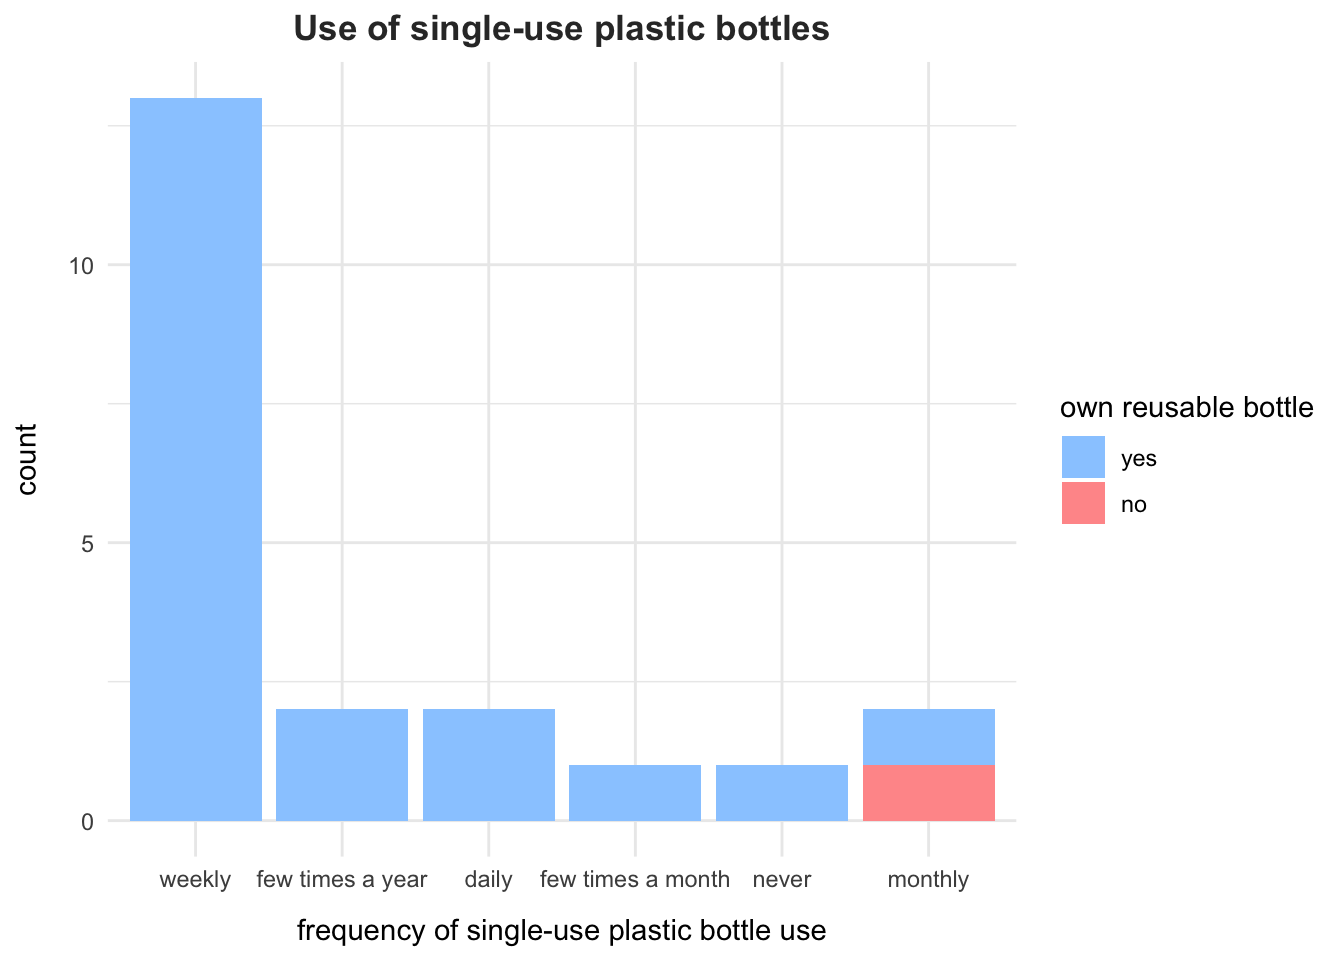
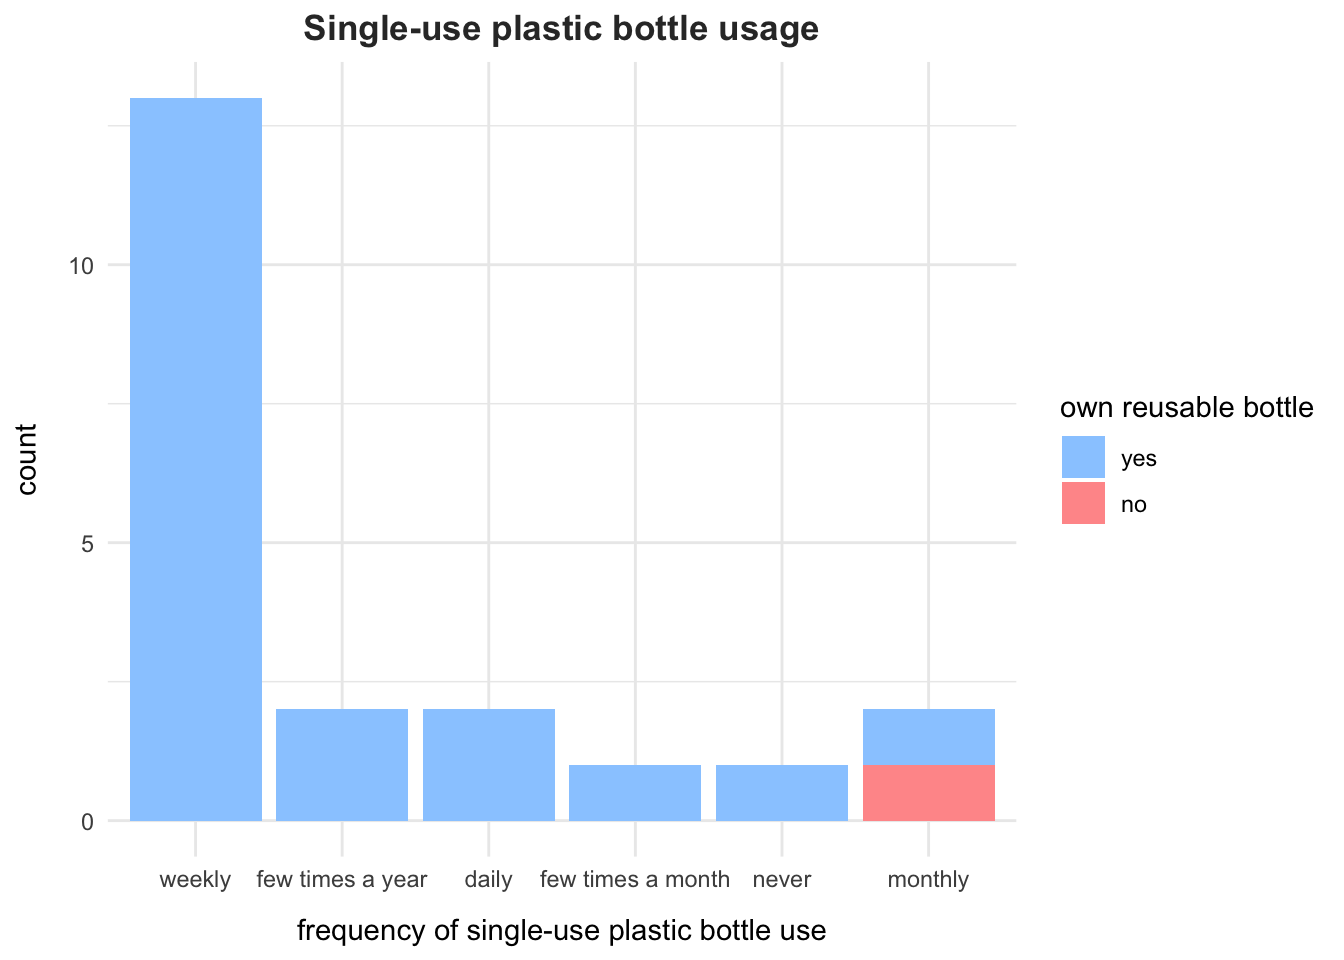
Conclusions

Changed region(s): [[0.2188, 0.0, 0.625, 0.0625]]

diff --git a/docs/index.html b/docs/index.html
@@ -94,10 +94,27 @@ div.csl-indent {
 
 </head>
 
-<body class="fullcontent">
+<body>
 
 <div id="quarto-content" class="page-columns page-rows-contents page-layout-article">
-
+<div id="quarto-margin-sidebar" class="sidebar margin-sidebar">
+  <nav id="TOC" role="doc-toc" class="toc-active">
+    <h2 id="toc-title">Table of contents</h2>
+   
+  <ul>
+  <li><a href="#introduction" id="toc-introduction" class="nav-link active" data-scroll-target="#introduction">Introduction</a></li>
+  <li><a href="#methods" id="toc-methods" class="nav-link" data-scroll-target="#methods">Methods</a></li>
+  <li><a href="#results" id="toc-results" class="nav-link" data-scroll-target="#results">Results</a>
+  <ul class="collapse">
+  <li><a href="#plastic-recycling-rate" id="toc-plastic-recycling-rate" class="nav-link" data-scroll-target="#plastic-recycling-rate">Plastic recycling rate</a></li>
+  <li><a href="#relationship-between-single-use-plastic-bottle-usage-and-reusable-bottle-ownership" id="toc-relationship-between-single-use-plastic-bottle-usage-and-reusable-bottle-ownership" class="nav-link" data-scroll-target="#relationship-between-single-use-plastic-bottle-usage-and-reusable-bottle-ownership">Relationship between single-use plastic bottle usage and reusable bottle ownership</a></li>
+  <li><a href="#willingness-to-separate-different-types-of-plastic-at-home-before-collection" id="toc-willingness-to-separate-different-types-of-plastic-at-home-before-collection" class="nav-link" data-scroll-target="#willingness-to-separate-different-types-of-plastic-at-home-before-collection">Willingness to separate different types of plastic at home before collection</a></li>
+  </ul></li>
+  <li><a href="#conclusions" id="toc-conclusions" class="nav-link" data-scroll-target="#conclusions">Conclusions</a></li>
+  <li><a href="#references" id="toc-references" class="nav-link" data-scroll-target="#references">References</a></li>
+  </ul>
+</nav>
+</div>
 <main class="content" id="quarto-document-content">
 
 <header id="title-block-header" class="quarto-title-block default">
@@ -159,19 +176,27 @@ div.csl-indent {
 <figcaption><a href="https://www.ebp.ch/en/node/1225">Source</a>: Plastic Recycling in Switzerland | EBP | Swiss</figcaption>
 </figure>
 </div>
+</div>
 <section id="introduction" class="level1">
 <h1>Introduction</h1>
+<div class="justify">
 <p>Switzerland faces significant challenges in recycling plastic waste. Each person in the country produces an average of 95 kg of plastic waste annually <span class="citation" data-cites="2023europe">(<a href="#ref-2023europe" role="doc-biblioref"><span>“Europe’s Laggard: <span>Switzerland</span>’s <span>Plastic Problem</span>”</span> 2023</a>)</span>. According to Patrick Semadeni, vice president of KUNSTOFF.swiss, Switzerland lacks the separation and recycling capacity to process all the collected plastic waste effectively <span class="citation" data-cites="turuban2024why">(<a href="#ref-turuban2024why" role="doc-biblioref">Turuban 2024</a>)</span>. This survey seeks to gain insights into the plastic waste management practices of individuals under 30 years old living in Switzerland. A potential solution could be separating different types of plastics at home for collection. The study aims to answer the following research question: To what extent are individuals under 30 in Switzerland aware of the environmental and health impacts of plastic? How do they recycle different types of plastics, and how willing are they to modify their plastic consumption and waste management practices?</p>
+</div>
 </section>
 <section id="methods" class="level1">
 <h1>Methods</h1>
+<div class="justify">
 <p>Data was collected via a questionnaire distributed through Google Forms as part of a project for the Research Beyond The Lab course at ETH Zurich. The 21 respondents, all under 30 years old and residing in Zurich, volunteered to complete the questionnaire. The sample was selected to ensure consistency in age, as the study was conducted by an ETH Zurich student. This approach aimed to minimize outliers and provide a focused perspective on the targeted demographic.</p>
+</div>
 </section>
 <section id="results" class="level1">
 <h1>Results</h1>
+<div class="justify">
 <p>This section presents findings related to the second part of the research question. Due to time constraints, the analysis of the first part of the question is omitted. Specifically, this chapter examines the overall plastic recycling rate, the recycling rate per type of plastic, the relationship between the use of single-use plastic bottles and ownership of a reusable bottle, and the willingness to separate different types of plastic at home before collection.</p>
+</div>
 <section id="plastic-recycling-rate" class="level2">
 <h2 class="anchored" data-anchor-id="plastic-recycling-rate">Plastic recycling rate</h2>
+<div class="justify">
 <p>We start by looking at our respondents. What is the average age, and does everyone recycle plastic? For simplicity, we computed the average age internally and found it to be 24 years old. Regarding the plastic recycling rate, our results were calculated as follows.</p>
 <div class="cell">
 <div class="sourceCode cell-code" id="cb1"><pre class="sourceCode r fold-hide code-with-copy"><code class="sourceCode r"><span id="cb1-1"><a href="#cb1-1" aria-hidden="true" tabindex="-1"></a><span class="co"># Load required libraries -----------------------------------</span></span>
@@ -240,7 +265,7 @@ Table&nbsp;1: Plastic recycling rate
 </figure>
 </div>
 </div>
-<p>As shown in <a href="#tbl-recycle-rate" class="quarto-xref">Table&nbsp;1</a>, the plastic recycling rate is 95.2%, indicating that almost every participant recycles plastic. This is a promising start. But which type of plastic is recycled the most? Does everyone recycle all types of plastic? To answer this, we choose to create a stacked bar chart displaying the recycling rates for each type of plastic.</p>
+<p>As shown in <a href="#tbl-recycle-rate" class="quarto-xref">Table&nbsp;1</a>, the plastic recycling rate is 95.2%, indicating that almost every participant recycles plastic. Moreover, the remaining 4.8% come from ‘Sometimes’ answers, meaning no one said they do not recycle plastic. This is a promising start. But which type of plastic is recycled the most? Does everyone recycle all types of plastic? To answer this, we create a stacked bar chart displaying the recycling rates for each type of plastic.</p>
 <div class="cell">
 <div class="sourceCode cell-code" id="cb2"><pre class="sourceCode r code-with-copy"><code class="sourceCode r"><span id="cb2-1"><a href="#cb2-1" aria-hidden="true" tabindex="-1"></a><span class="co"># Load required libraries -----------------------------------</span></span>
 <span id="cb2-2"><a href="#cb2-2" aria-hidden="true" tabindex="-1"></a><span class="fu">library</span>(ggplot2)</span>
@@ -299,16 +324,18 @@ Table&nbsp;1: Plastic recycling rate
 <img src="index_files/figure-html/fig-recycled-plastics-1.png" class="img-fluid figure-img" width="672">
 </div>
 <figcaption class="quarto-float-caption-bottom quarto-float-caption quarto-float-fig" id="fig-recycled-plastics-caption-0ceaefa1-69ba-4598-a22c-09a6ac19f8ca">
-Figure&nbsp;1: Proportion of recycled plastics per type
+Figure&nbsp;1: Proportion of recycled plastics by type
 </figcaption>
 </figure>
 </div>
 </div>
 </div>
 <p>As expected, <a href="#fig-recycled-plastics" class="quarto-xref">Figure&nbsp;1</a> showcases that Polyethylene Terephthalate (PET) - used for water bottles and plastic trays - achieves the highest recycling rate of 100%. Conversely, Low Density Polyethylene (LDPE) - employed in food bags, Polypropylene (PP) - found in margarine tubs and ready-meal trays, and Polystyrene (PS) - utilized for plastic cutlery, are not recycled by the majority of the population.</p>
+</div>
 </section>
 <section id="relationship-between-single-use-plastic-bottle-usage-and-reusable-bottle-ownership" class="level2">
 <h2 class="anchored" data-anchor-id="relationship-between-single-use-plastic-bottle-usage-and-reusable-bottle-ownership">Relationship between single-use plastic bottle usage and reusable bottle ownership</h2>
+<div class="justify">
 <p>Moving forward, let us delve into the usage of single-use plastic bottles and how it correlates with the ownership of a reusable bottle. To accomplish this, we will employ bar charts.</p>
 <div class="cell">
 <div class="sourceCode cell-code" id="cb3"><pre class="sourceCode r code-with-copy"><code class="sourceCode r"><span id="cb3-1"><a href="#cb3-1" aria-hidden="true" tabindex="-1"></a><span class="co"># Create summary table --------------------------------------</span></span>
@@ -339,7 +366,7 @@ Figure&nbsp;1: Proportion of recycled plastics per type
 <span id="cb3-26"><a href="#cb3-26" aria-hidden="true" tabindex="-1"></a>  <span class="fu">scale_fill_manual</span>(<span class="at">values =</span> <span class="fu">c</span>(<span class="st">"Yes"</span> <span class="ot">=</span> <span class="st">"#99CCFF"</span>, <span class="st">"No"</span> <span class="ot">=</span> <span class="st">"#FF9999"</span>), </span>
 <span id="cb3-27"><a href="#cb3-27" aria-hidden="true" tabindex="-1"></a>                    <span class="at">labels =</span> <span class="fu">c</span>(<span class="st">"yes"</span>, <span class="st">"no"</span>)) <span class="sc">+</span></span>
 <span id="cb3-28"><a href="#cb3-28" aria-hidden="true" tabindex="-1"></a>  <span class="fu">labs</span>(</span>
-<span id="cb3-29"><a href="#cb3-29" aria-hidden="true" tabindex="-1"></a>    <span class="at">title =</span> <span class="st">"Use of single-use plastic bottles"</span>,</span>
+<span id="cb3-29"><a href="#cb3-29" aria-hidden="true" tabindex="-1"></a>    <span class="at">title =</span> <span class="st">"Single-use plastic bottle usage"</span>,</span>
 <span id="cb3-30"><a href="#cb3-30" aria-hidden="true" tabindex="-1"></a>    <span class="at">x =</span> <span class="st">"frequency of single-use plastic bottle use"</span>,</span>
 <span id="cb3-31"><a href="#cb3-31" aria-hidden="true" tabindex="-1"></a>    <span class="at">y =</span> <span class="st">"count"</span>,</span>
 <span id="cb3-32"><a href="#cb3-32" aria-hidden="true" tabindex="-1"></a>    <span class="at">fill =</span> <span class="st">"own reusable bottle"</span></span>
@@ -360,16 +387,18 @@ Figure&nbsp;1: Proportion of recycled plastics per type
 <img src="index_files/figure-html/fig-bottles-1.png" class="img-fluid figure-img" width="672">
 </div>
 <figcaption class="quarto-float-caption-bottom quarto-float-caption quarto-float-fig" id="fig-bottles-caption-0ceaefa1-69ba-4598-a22c-09a6ac19f8ca">
-Figure&nbsp;2: Single-use plastic bottles use
+Figure&nbsp;2: Single-use plastic bottle usage
 </figcaption>
 </figure>
 </div>
 </div>
 </div>
 <p>As displayed in <a href="#fig-bottles" class="quarto-xref">Figure&nbsp;2</a>, nearly every respondent owns a reusable bottle. However, we did not find a clear link between the frequency of single-use plastic bottle use and the ownership of a reusable bottle. Nonetheless, it is evident that a majority of the population still uses single-use plastic bottles weekly.</p>
+</div>
 </section>
 <section id="willingness-to-separate-different-types-of-plastic-at-home-before-collection" class="level2">
 <h2 class="anchored" data-anchor-id="willingness-to-separate-different-types-of-plastic-at-home-before-collection">Willingness to separate different types of plastic at home before collection</h2>
+<div class="justify">
 <p>Finally, we examine the willingness to separate plastics at home before collection. Properly collected and sorted household plastics can undergo recycling multiple times <span class="citation" data-cites="recycling">(<a href="#ref-recycling" role="doc-biblioref"><span>“<span>The recycling solution for plastics from households <span></span> Sammelsack</span>”</span> n.d.</a>)</span>, highlighting the importance of this practice. Our data presentation choice is a horizontal bar chart.</p>
 <div class="cell">
 <div class="sourceCode cell-code" id="cb4"><pre class="sourceCode r code-with-copy"><code class="sourceCode r"><span id="cb4-1"><a href="#cb4-1" aria-hidden="true" tabindex="-1"></a><span class="co"># Create summary table --------------------------------------</span></span>
@@ -448,23 +477,25 @@ Figure&nbsp;3: Willingness to separate plastics at home
 </div>
 </div>
 </div>
-<p>In <a href="#fig-willingness" class="quarto-xref">Figure&nbsp;3</a>, we observe that a majority of the population is willing to separate plastics at home before collection. However, space constraints are cited as the primary reason for not doing so, followed by time constraints.</p>
+<p>In <a href="#fig-willingness" class="quarto-xref">Figure&nbsp;3</a>, we observe that a majority of the population is willing to separate plastics at home before collection. Among those who are not willing, space constraints are the most commonly cited reason, while some did not provide a justification. Overall, space constraints are identified as the most significant barrier to separating plastics at home, followed by time constraints.</p>
+</div>
 </section>
 </section>
 <section id="conclusions" class="level1">
 <h1>Conclusions</h1>
-<p>The findings of our study can be summarised in three major points.</p>
+<div class="justify">
+<p>The majors findings of our study can be summarized as follows:</p>
 <ul>
-<li></li>
-<li></li>
-<li></li>
+<li><p>The overall plastic recycling rate is very high among individuals under 30 years of age living in Zürich. However, Low Density Polyethylene (LDPE) – food bags, Polystyrene (PS) – plastic cutlery, and Polypropylene (PP) – margarine tubs and ready-meal trays are still not recycled by the majority.</p></li>
+<li><p>Our analysis did not show any relationship between single-use plastic bottle usage and reusable bottle ownership, but we found that the majority of respondents use single-plastic bottles weekly. This presents an opportunity for easy improvement.</p></li>
+<li><p>The willingness to separate plastics at home before collection is strong. However, the lack of space and time poses challenges. Half of the respondents claim that space is the most significant investment needed for this practice. This should be considered if mandatory plastic collection at home is implemented.</p></li>
 </ul>
-</section>
-<section id="references" class="level1">
-<h1>References</h1>
-</section>
 </div>
+</section>
+<section id="references" class="level1 unnumbered">
 
+
+</section>
 
 <div id="quarto-appendix" class="default"><section class="quarto-appendix-contents" role="doc-bibliography" id="quarto-bibliography"><h2 class="anchored quarto-appendix-heading">References</h2><div id="refs" class="references csl-bib-body hanging-indent" data-entry-spacing="0" role="list">
 <div id="ref-2023europe" class="csl-entry" role="listitem">
